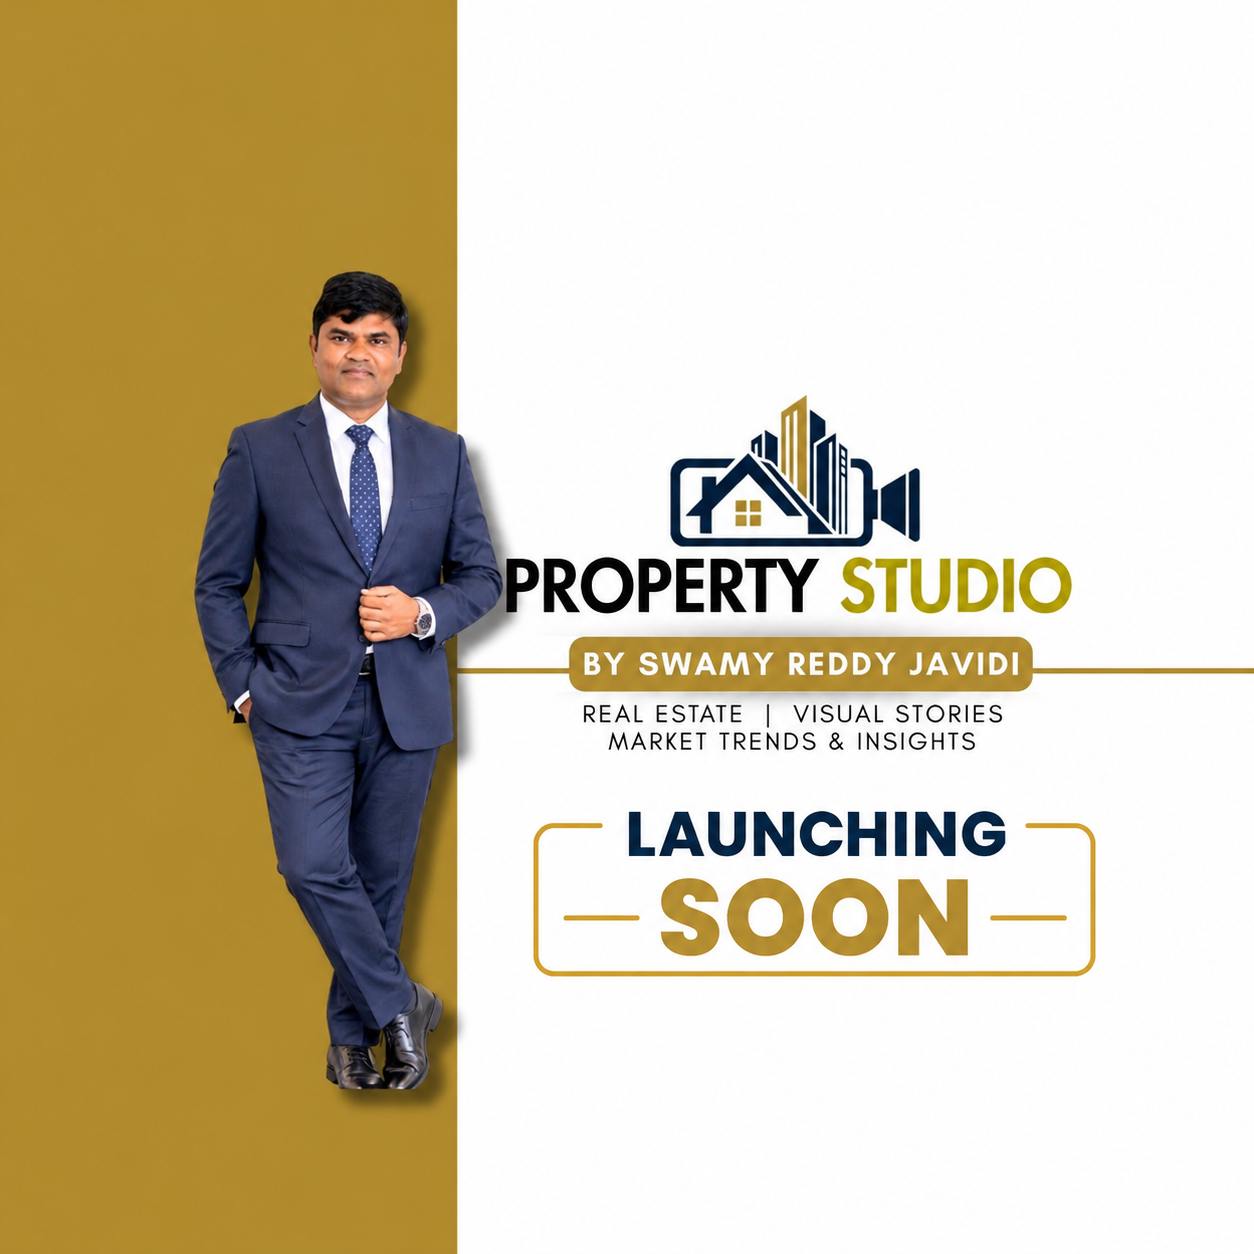
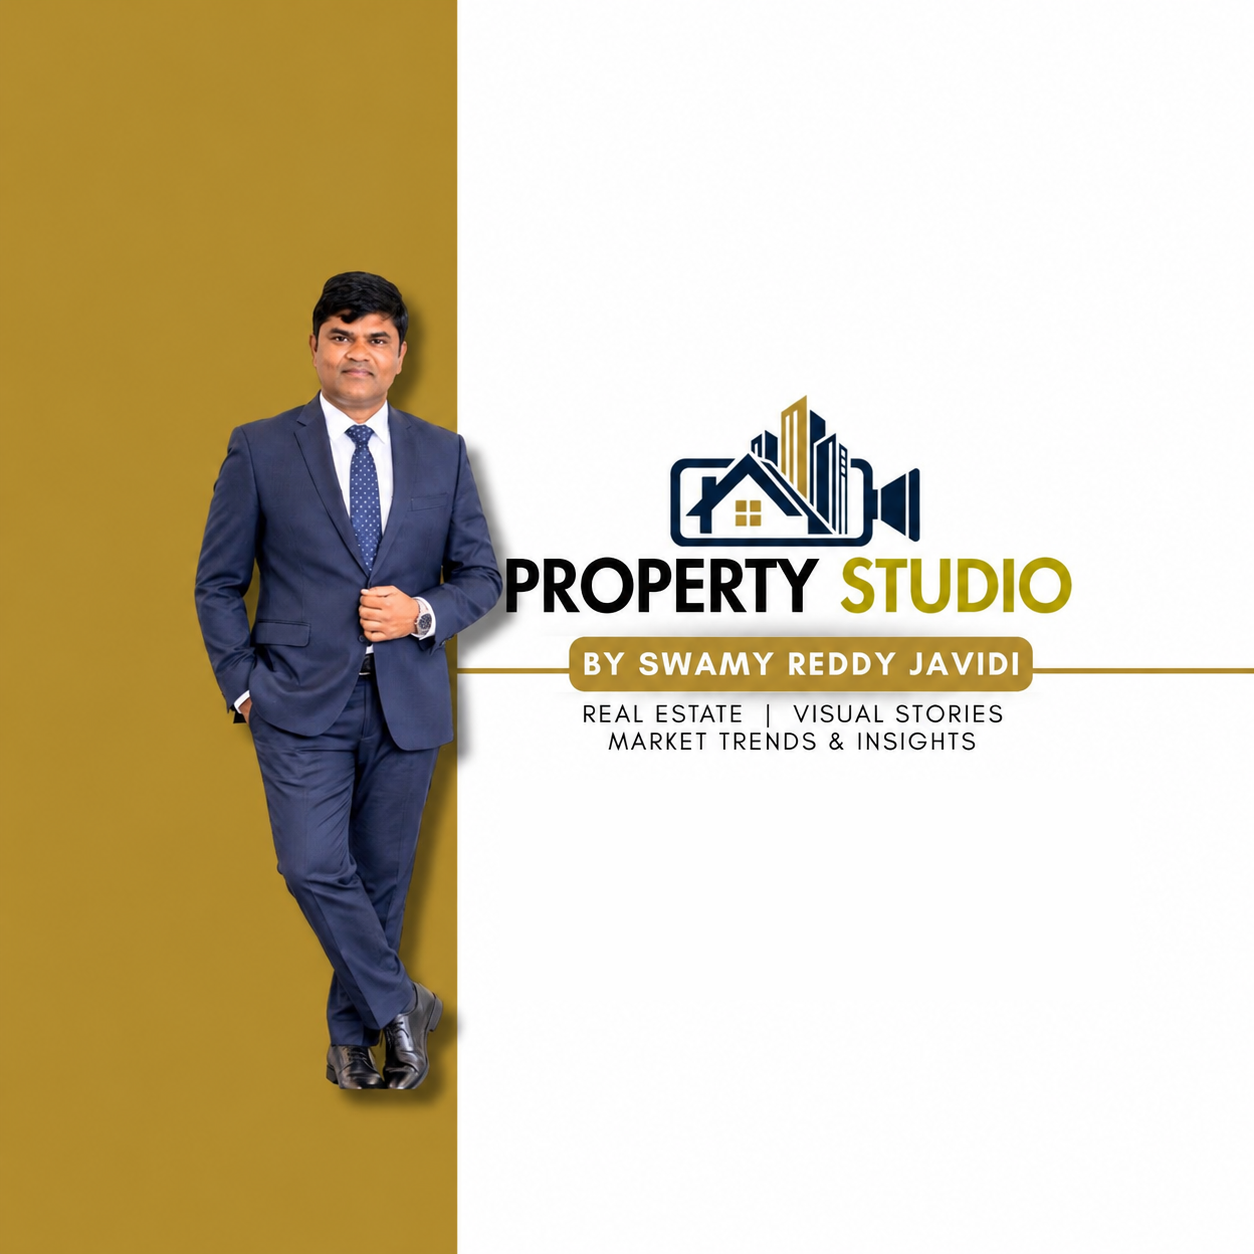
fix(brand): remove launching soon element from official founder poster image

Changed region(s): [[0.4043, 0.622, 0.9019, 0.7775]]

diff --git a/tests/hero-logo-founder-poster.test.ts b/tests/hero-logo-founder-poster.test.ts
@@ -50,6 +50,10 @@ test('Brand assets exist on disk in public/brand with valid sizes', () => {
   assert.ok(existsSync(posterPath), 'Founder poster must exist in public/brand/');
   assert.ok(statSync(posterPath).size > 100000, 'Founder poster must have valid size');
 
+  const buf = readFileSync(posterPath);
+  assert.equal(buf.readUInt32BE(16), 1254, 'Founder poster width must be 1254px');
+  assert.equal(buf.readUInt32BE(20), 1254, 'Founder poster height must be 1254px');
+
   const logoSquarePath = join(root, 'public/brand/property-studio-logo-square.jpg');
   assert.ok(existsSync(logoSquarePath), 'Square logo must exist in public/brand/');
   assert.ok(statSync(logoSquarePath).size > 50000, 'Square logo must have valid size');
